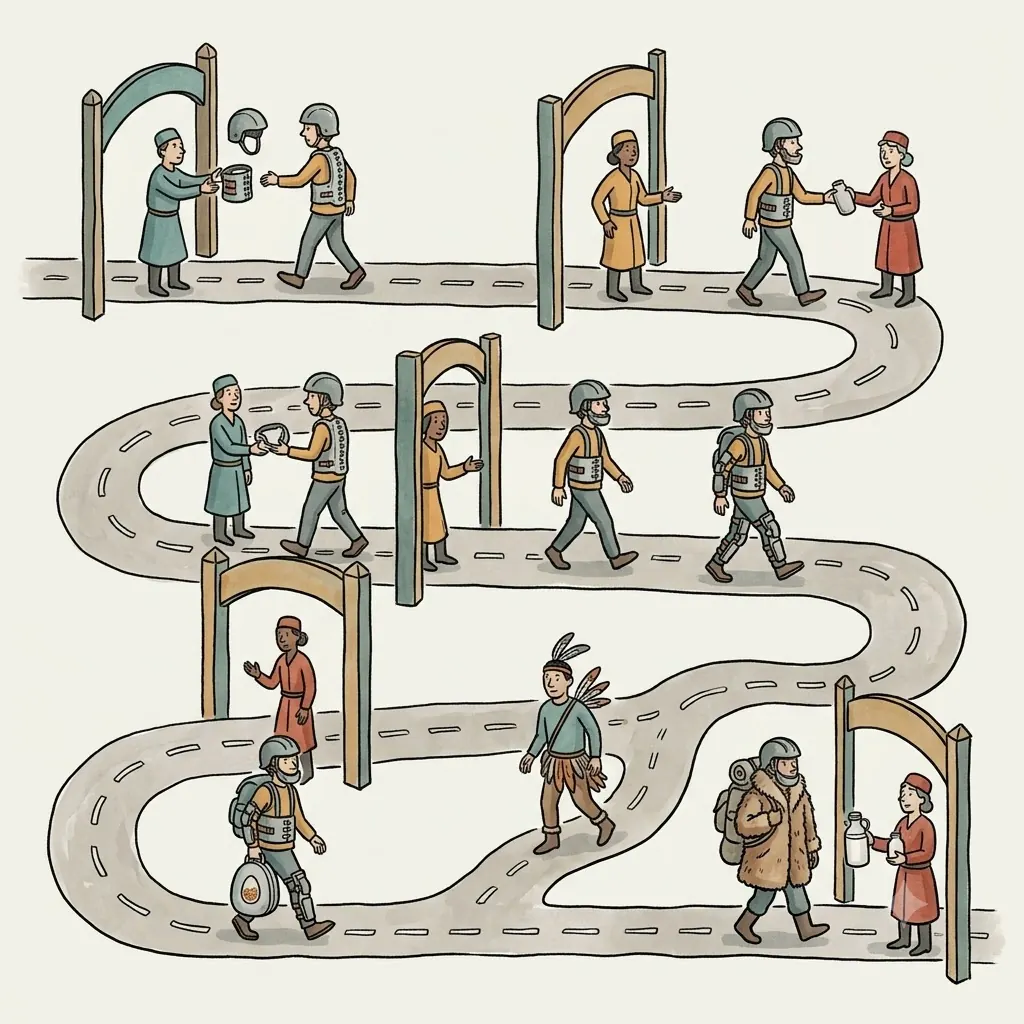
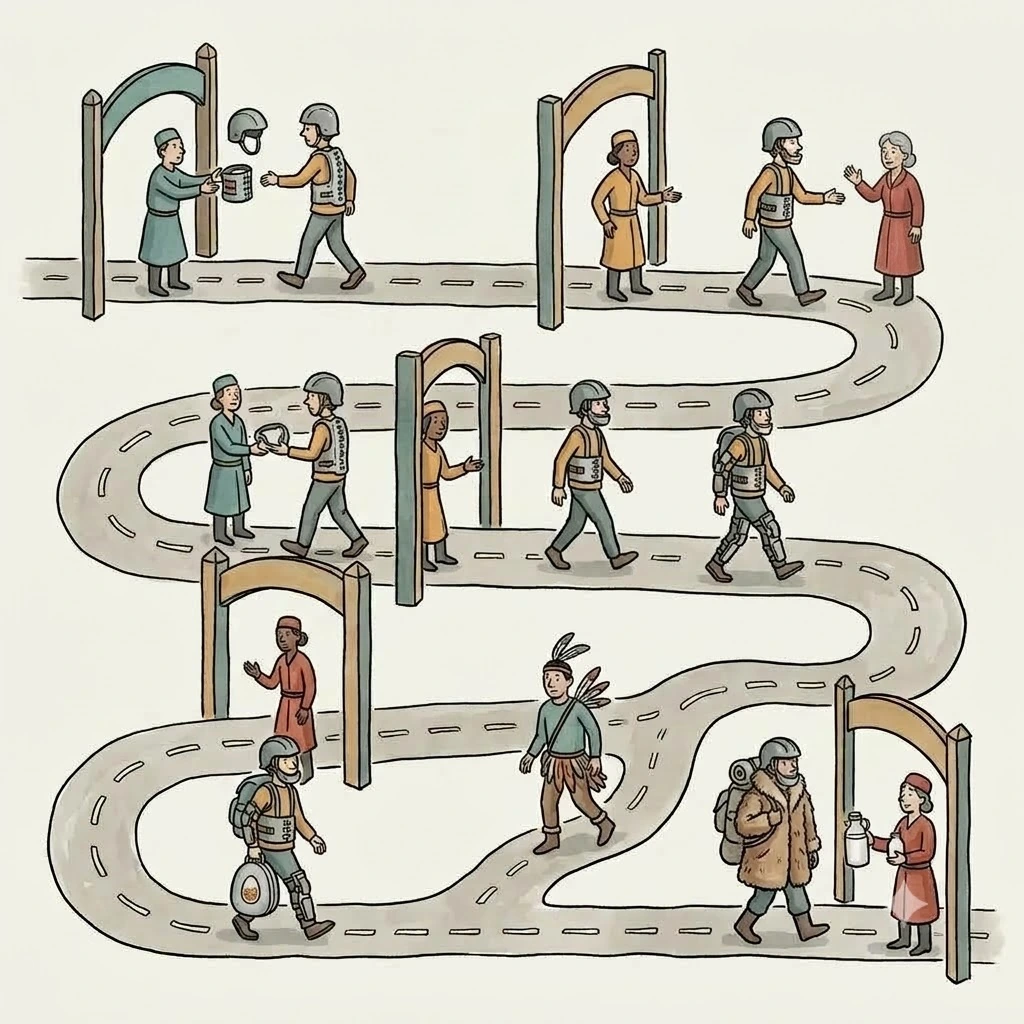
F3 — s29p01 1행(3장): 이른 관문의 우유병 지움 — 우유병은 마지막 관문에서만
Claude-Session: https://claude.ai/code/session_01WoYBm6rvmofApXiAiUhif2

diff --git a/tools/gemini_helpers.js b/tools/gemini_helpers.js
@@ -1,0 +1,14 @@
+window.__fire=function(b){const r=b.getBoundingClientRect(),cx=r.x+r.width/2,cy=r.y+r.height/2;for(const t of ['pointerover','pointerenter','mouseover','pointermove','mousemove','pointerdown','mousedown','pointerup','mouseup','click'])b.dispatchEvent(new MouseEvent(t,{bubbles:true,cancelable:true,composed:true,clientX:cx,clientY:cy,button:0,buttons:t.includes('down')?1:0}));};
+window.__pill=()=>{const b=[...document.querySelectorAll('button')].find(x=>/모드 선택 도구/.test(x.getAttribute('aria-label')||''));return b&&b.getAttribute('aria-label');};
+window.__menu=(re)=>[...document.querySelectorAll('[role="menuitem"],[role="menuitemradio"],[role="option"],button')].find(x=>re.test(x.innerText.trim().replace(/\s+/g,' ')));
+window.__setPro=async()=>{const open=()=>{const b=[...document.querySelectorAll('button')].find(x=>/모드 선택 도구/.test(x.getAttribute('aria-label')||''));window.__fire(b);return new Promise(r=>setTimeout(r,700));};
+  if(!/Pro/.test(window.__pill()||'')){await open();const it=window.__menu(/^3\.1 Pro/);if(it)window.__fire(it);await new Promise(r=>setTimeout(r,700));}
+  if(!/Extended/.test(window.__pill()||'')){await open();const it=window.__menu(/^확장된 사고 모델/);if(it)window.__fire(it);await new Promise(r=>setTimeout(r,700));}
+  return window.__pill();};
+window.__wake=async()=>{const ed=document.querySelector('div[contenteditable="true"]'); ed.focus();const sel=window.getSelection(); sel.selectAllChildren(ed); sel.collapseToEnd();document.execCommand('insertText',false,' '); document.execCommand('delete');ed.dispatchEvent(new InputEvent('beforeinput',{bubbles:true,inputType:'insertText',data:''}));ed.dispatchEvent(new InputEvent('input',{bubbles:true,inputType:'insertText',data:''}));await new Promise(r=>setTimeout(r,1500));return {len:ed.innerText.length, href:location.href.slice(-24)};};
+window.__sendrect=()=>{const sb=[...document.querySelectorAll('button')].find(x=>/메시지 보내기/.test(x.getAttribute('aria-label')||''));const r=sb&&sb.getBoundingClientRect();const ed=document.querySelector('div[contenteditable="true"]');return {len:ed?ed.innerText.length:-1,cx:r&&Math.round(r.x+r.width/2),cy:r&&Math.round(r.y+r.height/2)};};
+window.__expose=()=>{const f=[...document.querySelectorAll('input[type=file]')];const i=f.find(x=>(x.accept||'')==='image/*');if(i){document.body.appendChild(i);i.id='__imgup';i.setAttribute('aria-label','내가 노출시킨 이미지 업로드 입력');i.style.cssText='position:fixed;left:12px;top:12px;width:240px;height:48px;opacity:1;z-index:2147483647;display:block;visibility:visible';}return {n:f.length,moved:!!i};};
+window.__attach=()=>({thumbs:[...document.querySelectorAll('img')].filter(i=>/^blob:/.test(i.src)).map(i=>i.naturalWidth), close:[...document.querySelectorAll('button')].filter(b=>/첨부파일 닫기/.test(b.getAttribute('aria-label')||'')).length});
+window.__rechange=async()=>{const i=document.getElementById('__imgup');i.dispatchEvent(new Event('input',{bubbles:true}));i.dispatchEvent(new Event('change',{bubbles:true}));await new Promise(r=>setTimeout(r,4000));return window.__attach();};
+window.__openUpload=()=>{const b=[...document.querySelectorAll('button,[role="button"]')].find(x=>(x.getAttribute('aria-label')||'').trim()==='업로드 및 도구');window.__fire(b);return !!b;};
+window.__grab=(pid)=>{const imgs=[...document.querySelectorAll('img')].filter(i=>/^blob:/.test(i.src)&&i.naturalWidth>400);const stop=[...document.querySelectorAll('button')].filter(x=>/중지|Stop/.test(x.getAttribute('aria-label')||'')).length;let name=null;if(imgs.length>=2&&!stop){const L=imgs[imgs.length-1];name=pid+'_'+Date.now()+'.png';const a=document.createElement('a');a.href=L.src;a.download=name;document.body.appendChild(a);a.click();a.remove();}return {n:imgs.length,stop,name};};
